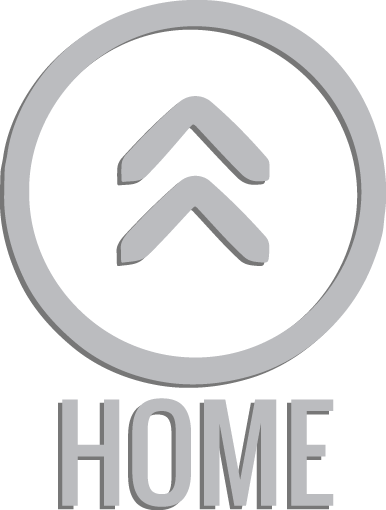
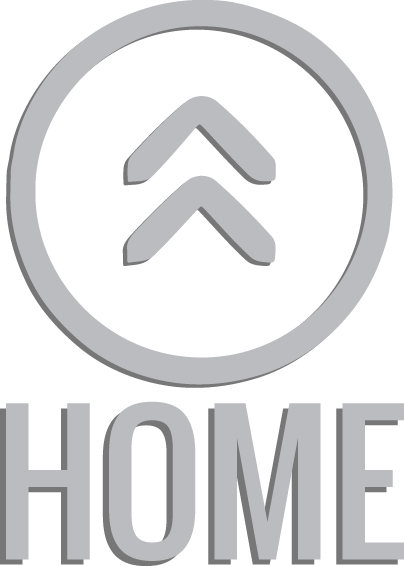
iphone friendly

diff --git a/style.css b/style.css
@@ -103,14 +103,14 @@ z-index: 1007;
     z-index: 1007;
 }
 .homearrow{
-	background-image: url("img/uparrow.png");
+	background-image: url("img/uparrow1.png");
 	background-size: contain;
 	background-repeat: no-repeat;
 	position:absolute;
 	margin-top: 0px;
 	right: 0px;
 	height: 80px;
-	width: 70px;
+	width: 53px;
 }
 .homearrow:hover{
 	background-image: url("img/uparrow2.png");
@@ -1756,6 +1756,29 @@ div.summary{
 	}
 	.contactme {
 		height: 585px;
+	}
+	p.topnav {
+		text-align: left;
+		left: 75px;
+		position: absolute;
+		z-index: 1007;
+		margin-top: 20px;
+		color: white;
+		font-size: 30px;
+	}
+	div.titles {
+		height: 120px;
+		bottom: 30px;
+	}
+	#gastro {
+		text-align: center;
+		margin-top: -20px;
+	}
+	.portfolio {
+		overflow: auto;
+	}
+	div#contact {
+		margin-left: 8px;
 	}
 }
 
